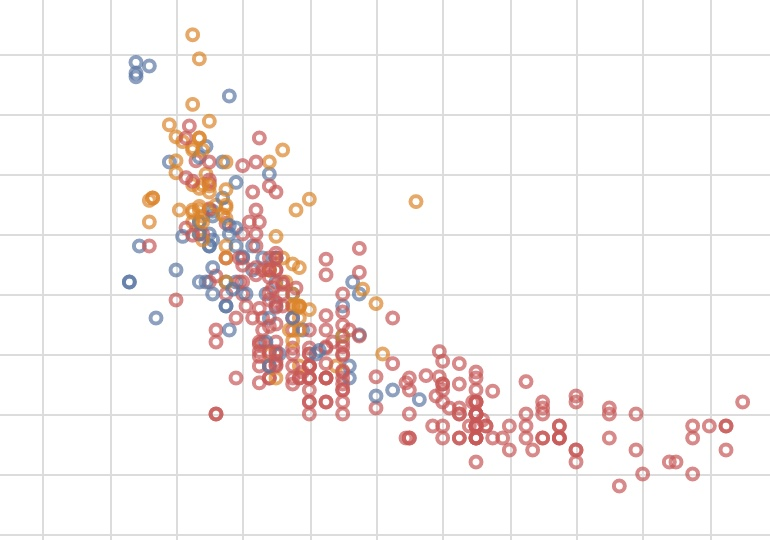
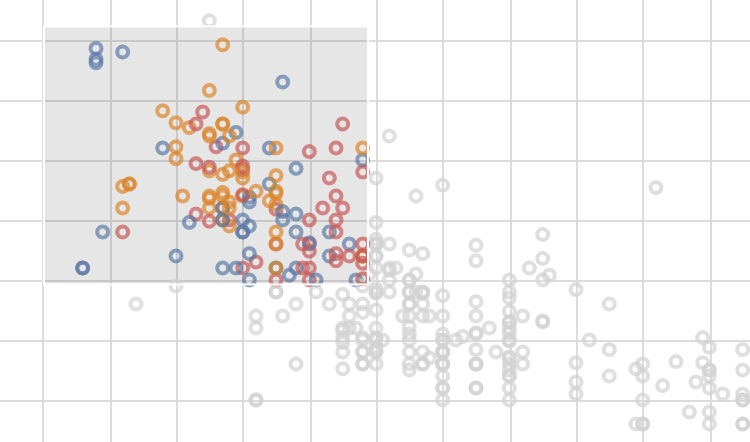
push it

diff --git a/_posts/2018-03-23-altair_intro.md b/_posts/2018-03-23-altair_intro.md
@@ -19,13 +19,13 @@ categories:
 
 Recently I attended a wonderful talk by [Jake VanderPlas](https://twitter.com/jakevdp) (and hosted by the always astute [Eli Bressert](https://twitter.com/astrobiased)) about a wonderful package he has been working on to make visualization in python easier.
 
-As a long time [ggplot2](http://ggplot2.tidyverse.org/), I'm quick to bemoan the challenges of succinctly visualizing data in python. While there are many visualization packages out there, none of them seem to approach the intuitiveness, completeness, and consistency found in R's go-to tooling.
+As a long time [ggplot2](http://ggplot2.tidyverse.org/) user, I'm quick to bemoan the challenges of succinctly visualizing data in python. While there are many visualization packages out there, none of them seem to approach the intuitiveness, completeness, and consistency found in R's go-to tooling.
 
 I'm happy to say that this new python package [Altair](https://altair-viz.github.io/index.html) might put an end to my grumblings (and yours) once and for all.
 
-I'd like to take you through the basics of experimenting with Altair to show a bit of what it can do. None of this is more than what you will find in the documentation, but just describes some of my experiences starting to learn how to use this tool.
+I'd like to take you through the basics of experimenting with Altair to show a bit of what it can do. None of my ramblings is really more than what you will find in [the documentation](https://altair-viz.github.io/getting_started/overview.html), but I will describe some of my experiences in starting to learn how to use this tool.
 
-## What is Altair
+## What is Altair?
 
 Altair provides a way to write declarative data visualization code in python by harnessing the power of [Vega](https://vega.github.io/vega/) and [Vega-Lite](https://vega.github.io/vega-lite/). Ok, so what is Vega?
 
@@ -33,11 +33,13 @@ Vega is a visualization grammer (think [Grammar of Graphics](http://vita.had.co.
 
 Vega-lite provides a format to specify data, data encodings, and even [interactions](https://vega.github.io/vega/docs/event-streams/), all in a relatively simple and intuitive specification.
 
-In turn, Altair provides a way to generate these Vega-lite specifications using an intuitive and pythonic API.
+These packages and [many more](https://vega.github.io/) have been created out of the blood, sweat, and tears of the [UW Interactive Data Lab](https://idl.cs.washington.edu/). [Arvind](https://twitter.com/arvindsatya1), [Ham](https://twitter.com/kanitw), [Dom](https://twitter.com/domoritz), [Jeff](https://twitter.com/jeffrey_heer), and all the rest: we can't thank you enough for this vision and these amazing tools!
 
-Intrigued? Then let's get started!
+Anyway, back to Altair.
 
-## Jupyter Lab
+Altair provides a way to generate these Vega-lite specifications using an intuitive and pythonic API. So we can write python, but get out Vega-Lite. Intrigued? Then let's get started!
+
+## JupyterLab Experimentation
 
 All my experimentation has been done using the newly-ready-for-use [JupyterLab](https://blog.jupyter.org/jupyterlab-is-ready-for-users-5a6f039b8906), the successor to Jupyter Notebooks.
 
@@ -97,7 +99,7 @@ alt.Chart(cars).mark_point().encode(
     color='Origin',
 )
 ```
-Note: The result is a Vega-Lite specification that is rendered automatically inside of JupyterLab. To show the result in this post, I will use the handle-dandy [Vega Embed](https://github.com/vega/vega-embed) to display the spec below.
+Note: The result is a Vega-Lite specification that is rendered automatically inside of JupyterLab. To show the result in this post, I will use the handy-dandy [Vega Embed](https://github.com/vega/vega-embed) to display the spec below.
 
 <div id='spec1'></div>
 
@@ -169,7 +171,7 @@ alt.Chart(cars).mark_bar(opacity=0.2).encode(
 
 ## Faceting
 
-One feature i always look for in a new visualization tool or package is faceting based on a categorical variable. Many of the python packages I’ve seen require loops to accomplish this task, which I feel takes you out of the 'what' you are trying to visualize and keeps you stuck in the 'how'. Fortunately, Altair doesn’t require this cognitive break.
+One feature I always look for in a new visualization tool or package is faceting based on a categorical variable. Many of the python packages I’ve seen require loops to accomplish this task, which I feel takes you out of the 'what' you are trying to visualize and keeps you stuck in the 'how'. Fortunately, Altair doesn’t require this cognitive break.
 
 You can just use the [facet()](https://altair-viz.github.io/user_guide/compound_charts.html#faceted-charts) method!
 
@@ -183,7 +185,7 @@ alt.Chart(cars).mark_point().encode(
 
 <div id='spec5'></div>
 
-Notice the strange `:Q` trailing our data attribute. This is a special shorthand to indicate to Vega-Lite what type of data value `Origin` is. While you might think that the tool should be able to figure this out automatically, remember we are ultimate just building up a JSON specification - and so some of these nuances need to be supplied explicitly.
+Notice the strange `:Q` trailing our data attribute. This is a special shorthand to indicate to Vega-Lite what type of data value `Origin` is. While you might think that the tool should be able to figure this out automatically, remember we are ultimately just building up a JSON specification - and so some of these nuances need to be supplied explicitly.
 
 ## A Grammar of Interaction
 
@@ -239,7 +241,7 @@ We will play a bit more with selections later on in the tutorial.
 
 Often times we are interested in visualizing an aggregation of the data, rather then just raw values. Altair comes equipped with a number of [aggregation and binning](https://altair-viz.github.io/user_guide/encoding.html#binning-and-aggregation) functions that can be applied to specific encoding.
 
-For example, we can use the `count()` aggregation to turn our facetted scatterplot into a histogram.
+For example, we can use the `count()` aggregation to turn our faceted scatterplot into a histogram.
 
 ```python
 alt.Chart(cars).mark_bar().encode(
@@ -269,9 +271,9 @@ alt.Chart(cars).mark_bar().encode(
 
 ## Layering Marks
 
-Let's finish up with a look at how to combine charts to make much more sophisticated visualizations.
+We will wrap up this tutorial with a look at how to combine charts to make much more sophisticated visualizations.
 
-First, we can [layer charts](https://altair-viz.github.io/user_guide/compound_charts.html#layered-charts) on top of one another to make Marks that are availible by default.
+First, we can [layer charts](https://altair-viz.github.io/user_guide/compound_charts.html#layered-charts) on top of one another to make Marks that are available by default.
 
 Altair provides the `layer()` method to do this, as well as a shorthand version using the `+` operator.
 
@@ -335,9 +337,9 @@ Pretty cool, right?
 
 We can use interaction with layered charts too!
 
-Here is a quick attempt at an scatterplot that shows more details on hover. The text is a separate layer that is conditionally displayed.
+Here is a quick attempt at an scatterplot that shows more details when hovering over each point. The text is a separate layer that is conditionally displayed.
 
-We get to see [selection_single](https://altair-viz.github.io/user_guide/API.html#altair.selection_single) in action, which allows us to select a single thing at a time. We can customize it to make it work on mouseover.
+We get to see [selection_single()](https://altair-viz.github.io/user_guide/API.html#altair.selection_single) in action, which allows us to select one thing at a time. We can customize it to make it work on mouseover.
 
 ```python
 # the 'empty' setting makes all text hidden before any mouseover occurs.
@@ -389,10 +391,27 @@ bars = alt.Chart().mark_bar().encode(
     x='count(Origin):Q'
 ).transform_filter(
     brush.ref() # the filter transform uses the selection
+                # to filter the input data to this chart
 )
 
 chart = alt.vconcat(points, bars, data=cars)
 chart
 ```
 
+_Make sure to brush around on the top chart!_
+
 <div id="spec12"></div>
+
+## Limitations and Looking Forward
+
+Hopefully this long drawn out demo of Altair at least gets people excited about the potential for this tool and the promise of declarative chart making in python.
+
+That being said, like any great thing, there are some caveats. Here are a few:
+
+* The API is still pretty new. Some of this could break!
+* The documentation is still incomplete. Sometimes you need to look at Altair and Vega-Lite docs to find an answer.
+* The number of data points Altair can handle is currently pretty low. Right now it is capped at 5,000, but that is modifiable.
+* As noted above, tooltips are still on the way.
+* It would be cool to have the ability to extend Altair to make new Mark/encoding types. The `boxplot` function above would then be created inline as `alt.mark_boxplot()` or something similar.
+
+But even with these slight short-comings, I am excited about this great new package, and can't wait to try it on more interesting datasets in the future. I hope you are excited too!
